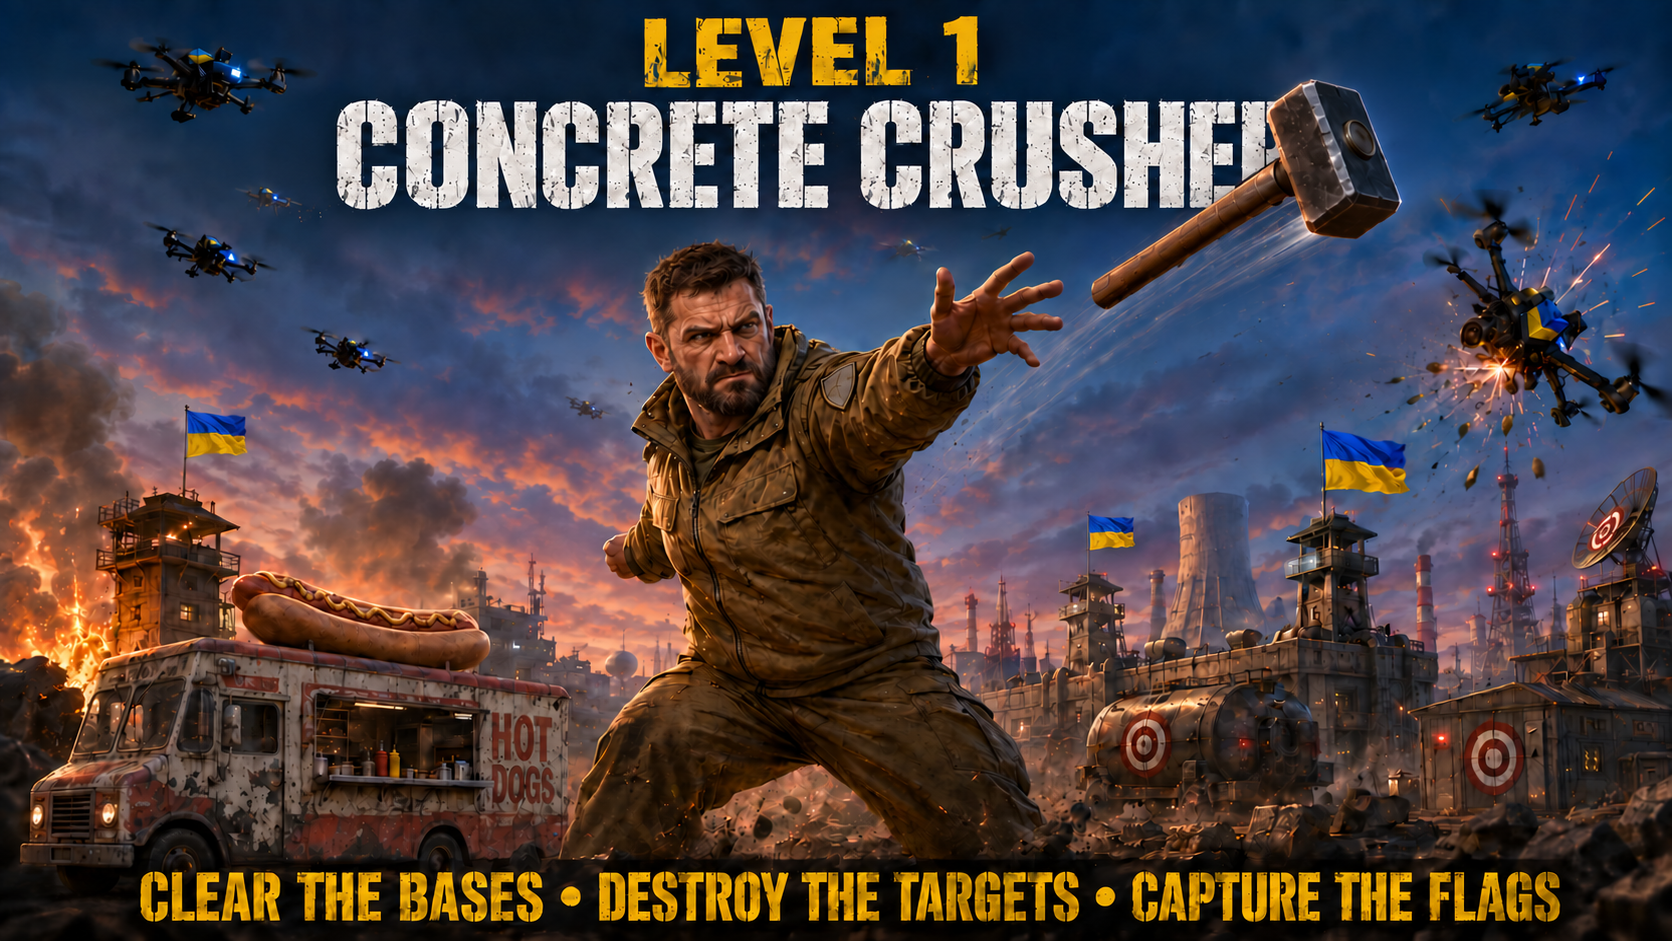
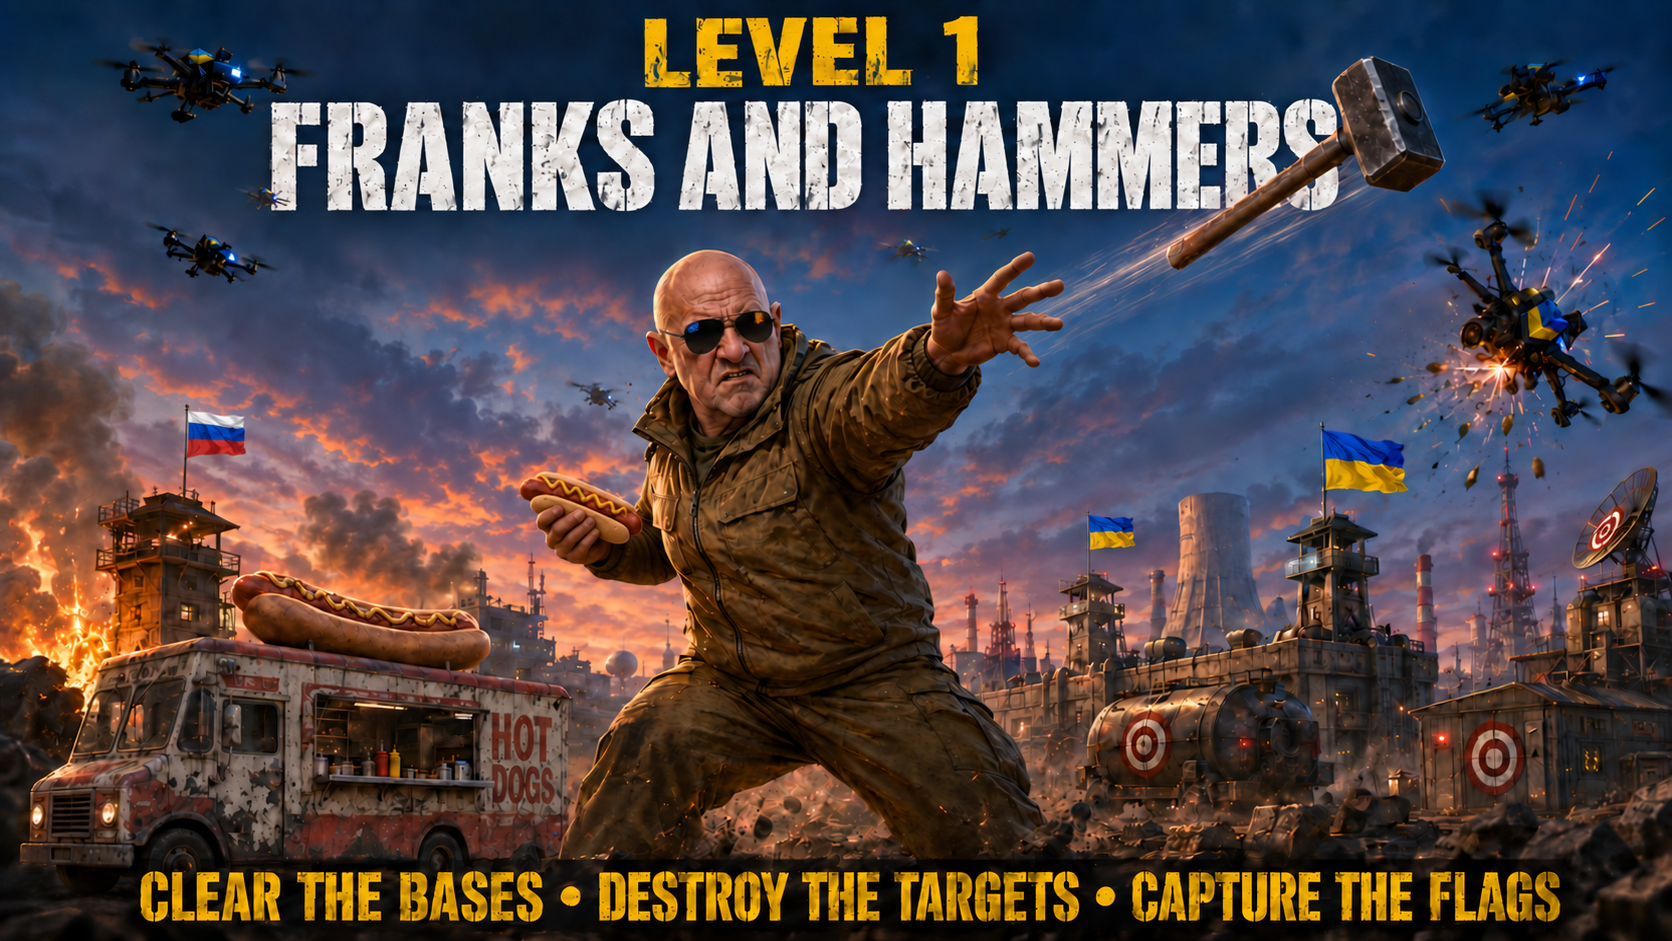
Level 1: rename to 'Franks And Hammers' + new cover image
- Defeat card: CONCRETE CRUSHER → FRANKS & HAMMERS
- Sector 1 menu button: THE COMPOUND → FRANKS AND HAMMERS
- Game intro banner: CONCRETE CRUSHERS → FRANKS AND HAMMERS
- GameSidebar + GameLanding sector name updated
- DonationPopup text updated
- New level-1.png cover image (FrankAndHammers.png)
- Bump game.js v39 → v40

diff --git a/get-droned-claudecode/index.html b/get-droned-claudecode/index.html
@@ -73,7 +73,7 @@
 
   <div id="banner"><b></b><small></small></div>
   <div id="levelFourBossVictory"><div class="victoryIn"><img alt="Dmitry Medvedev" src="assets/images/bosses/dmitry-medvedev.jpg"><strong>LEVEL FOUR CLEAR</strong><span>DMITRY MEDVEDEV DEFEATED</span><i></i></div></div>
-  <div id="bossVictory"><canvas id="bossVictoryFx" style="position:absolute;inset:0;width:100%;height:100%;pointer-events:none"></canvas><div class="victoryIn"><p id="v1Label">LEVEL ONE CLEAR</p><strong>CONCRETE<br>CRUSHER</strong><span>ELIMINATED</span><i></i></div></div>
+  <div id="bossVictory"><canvas id="bossVictoryFx" style="position:absolute;inset:0;width:100%;height:100%;pointer-events:none"></canvas><div class="victoryIn"><p id="v1Label">LEVEL ONE CLEAR</p><strong>FRANKS &amp;<br>HAMMERS</strong><span>ELIMINATED</span><i></i></div></div>
 
   <div id="seaBossVictory"><div class="victoryIn"><img alt="Aleksandr Moiseyev" src="assets/images/bosses/aleksandr-moiseyev.jpg"><strong>LEVEL THREE CLEAR</strong><span>ALEKSANDR MOISEYEV DEFEATED</span><i></i></div></div>
 
@@ -89,7 +89,7 @@
     <p class="sub">Sweep the compound, then get to the flagpole in the forecourt, haul their colours down and run yours up. They will come back for it.<br><br>Sweep the ruin. Enemy squads push in from every side. Crack open supply crates to pull weapon and ammo cards — you only carry one gun, so choose well.</p>
     <div id="kitLbl">CHOOSE YOUR KIT</div>
     <div id="kits"></div>
-    <button class="btn" id="go">SECTOR 1 · THE COMPOUND</button>
+    <button class="btn" id="go">SECTOR 1 · FRANKS AND HAMMERS</button>
     <button class="btn trench lvl" data-l="2">SECTOR 2 · THE TRENCHES</button>
     <button class="btn sea lvl" data-l="3">SECTOR 3 · THE BLACK SEA</button>
     <button class="btn oil lvl" data-l="4">SECTOR 4 · THE OIL FIELDS</button>
@@ -166,6 +166,6 @@
   })();
 </script>
 
-<script src="assets/js/game.js?v=39"></script>
+<script src="assets/js/game.js?v=40"></script>
 </body>
 </html>

diff --git a/public/get-droned/index.html b/public/get-droned/index.html
@@ -73,7 +73,7 @@
 
   <div id="banner"><b></b><small></small></div>
   <div id="levelFourBossVictory"><div class="victoryIn"><img alt="Dmitry Medvedev" src="assets/images/bosses/dmitry-medvedev.jpg"><strong>LEVEL FOUR CLEAR</strong><span>DMITRY MEDVEDEV DEFEATED</span><i></i></div></div>
-  <div id="bossVictory"><canvas id="bossVictoryFx" style="position:absolute;inset:0;width:100%;height:100%;pointer-events:none"></canvas><div class="victoryIn"><p id="v1Label">LEVEL ONE CLEAR</p><strong>CONCRETE<br>CRUSHER</strong><span>ELIMINATED</span><i></i></div></div>
+  <div id="bossVictory"><canvas id="bossVictoryFx" style="position:absolute;inset:0;width:100%;height:100%;pointer-events:none"></canvas><div class="victoryIn"><p id="v1Label">LEVEL ONE CLEAR</p><strong>FRANKS &amp;<br>HAMMERS</strong><span>ELIMINATED</span><i></i></div></div>
 
   <div id="seaBossVictory"><div class="victoryIn"><img alt="Aleksandr Moiseyev" src="assets/images/bosses/aleksandr-moiseyev.jpg"><strong>LEVEL THREE CLEAR</strong><span>ALEKSANDR MOISEYEV DEFEATED</span><i></i></div></div>
 
@@ -89,7 +89,7 @@
     <p class="sub">Sweep the compound, then get to the flagpole in the forecourt, haul their colours down and run yours up. They will come back for it.<br><br>Sweep the ruin. Enemy squads push in from every side. Crack open supply crates to pull weapon and ammo cards — you only carry one gun, so choose well.</p>
     <div id="kitLbl">CHOOSE YOUR KIT</div>
     <div id="kits"></div>
-    <button class="btn" id="go">SECTOR 1 · THE COMPOUND</button>
+    <button class="btn" id="go">SECTOR 1 · FRANKS AND HAMMERS</button>
     <button class="btn trench lvl" data-l="2">SECTOR 2 · THE TRENCHES</button>
     <button class="btn sea lvl" data-l="3">SECTOR 3 · THE BLACK SEA</button>
     <button class="btn oil lvl" data-l="4">SECTOR 4 · THE OIL FIELDS</button>
@@ -166,6 +166,6 @@
   })();
 </script>
 
-<script src="assets/js/game.js?v=39"></script>
+<script src="assets/js/game.js?v=40"></script>
 </body>
 </html>

diff --git a/get-droned-claudecode/assets/js/game.js b/get-droned-claudecode/assets/js/game.js
@@ -6220,7 +6220,7 @@ function startSector(n){
         {t:2.4,a:'TWO ENEMY BASES',b:'CLEAR AND CAPTURE BOTH'},
         {t:4.8,a:'PRISONERS IN EACH BASE',b:'FREE THEM AND GET THEM HOME'},
         {t:7.2,a:'TWO WEAPONS DEPOTS',b:'BREACH AND DESTROY BOTH'},
-        {t:9.6,a:'LAUNCH TRUCK DEPLOYING',b:'PROTECTED FOR 12 SECONDS'}]:[{t:0,a:'SECTOR '+n,b:'CONCRETE CRUSHERS'},
+        {t:9.6,a:'LAUNCH TRUCK DEPLOYING',b:'PROTECTED FOR 12 SECONDS'}]:[{t:0,a:'SECTOR '+n,b:'FRANKS AND HAMMERS'},
          {t:2.4,a:'BREACH 3 COMPOUND PERIMETERS',b:'TAKE EACH FORTIFIED POSITION'},
          {t:4.8,a:'NEUTRALIZE ENEMY FORCES',b:'CLEAR ALL HOSTILES'},
          {t:7.2,a:'ELIMINATE HAMMER GOD',b:'TAKE DOWN THE ENEMY COMMANDER'}];

diff --git a/public/get-droned/assets/js/game.js b/public/get-droned/assets/js/game.js
@@ -6221,7 +6221,7 @@ function startSector(n){
         {t:2.4,a:'TWO ENEMY BASES',b:'CLEAR AND CAPTURE BOTH'},
         {t:4.8,a:'PRISONERS IN EACH BASE',b:'FREE THEM AND GET THEM HOME'},
         {t:7.2,a:'TWO WEAPONS DEPOTS',b:'BREACH AND DESTROY BOTH'},
-        {t:9.6,a:'LAUNCH TRUCK DEPLOYING',b:'PROTECTED FOR 12 SECONDS'}]:[{t:0,a:'SECTOR '+n,b:'CONCRETE CRUSHERS'},
+        {t:9.6,a:'LAUNCH TRUCK DEPLOYING',b:'PROTECTED FOR 12 SECONDS'}]:[{t:0,a:'SECTOR '+n,b:'FRANKS AND HAMMERS'},
          {t:2.4,a:'BREACH 3 COMPOUND PERIMETERS',b:'TAKE EACH FORTIFIED POSITION'},
          {t:4.8,a:'NEUTRALIZE ENEMY FORCES',b:'CLEAR ALL HOSTILES'},
          {t:7.2,a:'ELIMINATE HAMMER GOD',b:'TAKE DOWN THE ENEMY COMMANDER'}];

diff --git a/src/components/GameLanding.tsx b/src/components/GameLanding.tsx
@@ -5,7 +5,7 @@ import type { Game } from '@/types/database'
 import type { User } from '@supabase/supabase-js'
 
 const SECTORS = [
-  { num: 1, name: 'CONCRETE CRUSHERS', cover: '/get-droned/assets/images/covers/level-1.png' },
+  { num: 1, name: 'FRANKS AND HAMMERS', cover: '/get-droned/assets/images/covers/level-1.png' },
   { num: 2, name: 'THE TRENCHES',   cover: '/get-droned/assets/images/covers/level-2.webp' },
   { num: 3, name: 'THE BLACK SEA',  cover: '/get-droned/assets/images/covers/level-3.webp' },
   { num: 4, name: 'THE OIL FIELDS', cover: '/get-droned/assets/images/covers/level-4.webp' },

diff --git a/src/components/GameSidebar.tsx b/src/components/GameSidebar.tsx
@@ -41,7 +41,7 @@ const UA = {
 }
 
 const SECTORS = [
-  { num: 1, name: 'CONCRETE CRUSHERS', cover: '/get-droned/assets/images/covers/level-1.png' },
+  { num: 1, name: 'FRANKS AND HAMMERS', cover: '/get-droned/assets/images/covers/level-1.png' },
   { num: 2, name: 'THE TRENCHES',   cover: '/get-droned/assets/images/covers/level-2.webp' },
   { num: 3, name: 'THE BLACK SEA',  cover: '/get-droned/assets/images/covers/level-3.webp' },
   { num: 4, name: 'THE OIL FIELDS', cover: '/get-droned/assets/images/covers/level-4.webp' },

diff --git a/src/components/DonationPopup.tsx b/src/components/DonationPopup.tsx
@@ -57,7 +57,7 @@ export function DonationPopup({ price, onBuy, onDismiss }: Props) {
           margin: '0 0 8px', textAlign: 'center', lineHeight: 1.7,
           fontSize: 12, color: '#9a9288',
         }}>
-          You just cleared The Compound. Five more sectors are waiting — each one harder,
+          You just cleared Franks And Hammers. Five more sectors are waiting — each one harder,
           stranger, and more worth your time.
         </p>
         <p style={{

diff --git a/src/components/GamePageClient.tsx b/src/components/GamePageClient.tsx
@@ -138,7 +138,7 @@ export function GamePageClient({ game }: Props) {
         {playing ? (
           game.play_url ? (
             <iframe
-              src={`${game.play_url}?v=39`}
+              src={`${game.play_url}?v=40`}
               style={{ display: 'block', width: '100%', height: '100%', border: 'none', background: '#0c0d0b' }}
               allowFullScreen
               title={game.title}
